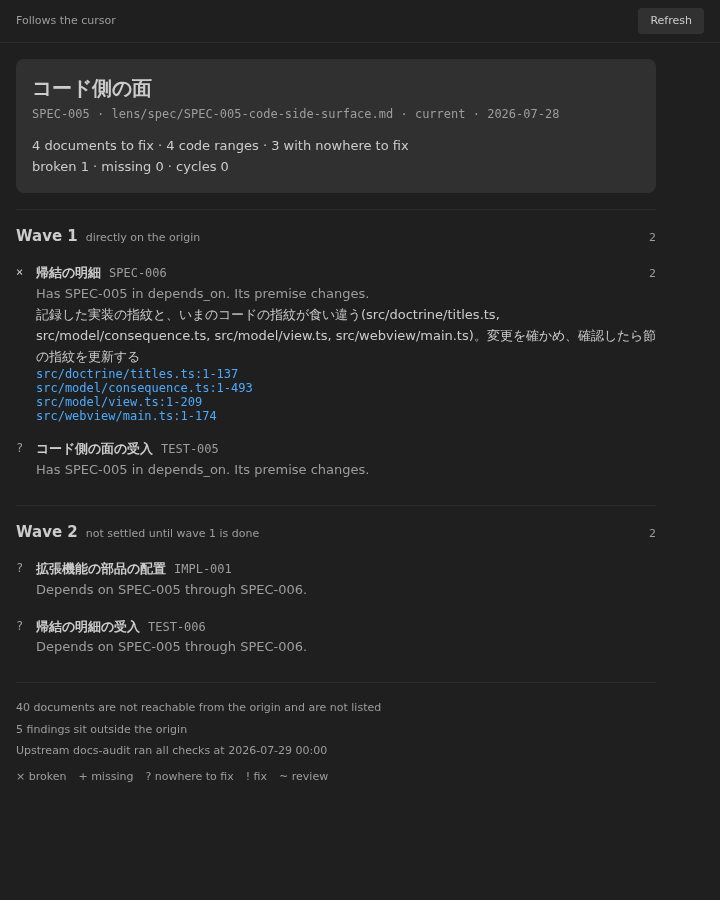
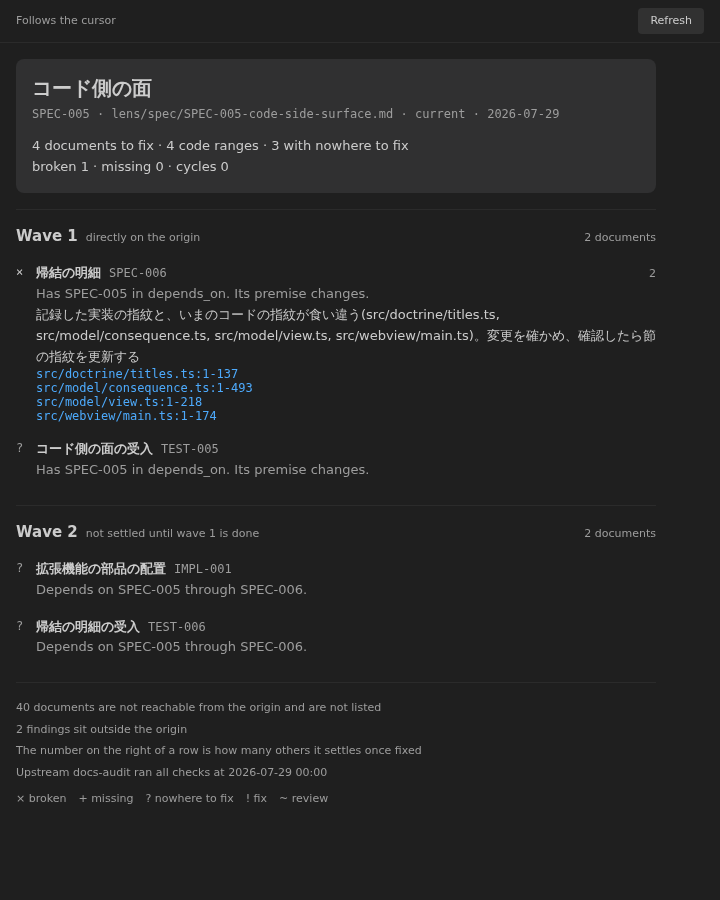
右端の数に説明を付け、読み幅を一つに固定する
写しを目で見て、門が見ていなかった二つを直した。

1. 読み幅を 72ch で書いていた。ch はその要素自身の字の大きさを基準に
   するので、11px の脚注は 500px、13px の波は 600px、20px の起点は
   900px で切れる。節ごとに右端がずれ、区切りの罫の長さが揃わなかった。
   読み幅を一つの px 値に固定し、ch/em/rem で書けないことを試験にした。

2. 右端に、意味の違う裸の数が二種類あった。波の見出しの件数と、行の
   「後ろに N」が同じ位置に出ていた。件数に単位の語を付け（「2 文書」）、
   行の数の意味を脚注で言う形にした。説明の無い数は、読めない型番と同じ
   である（利用者が最初に言った不満がまさにそれだった）。

件数の組み立ては本体へ移した。描き手は判断も整形も持たない。

Changed region(s): [[0.0306, 0.8089, 0.5194, 0.9022], [0.825, 0.2489, 0.8861, 0.28], [0.55, 0.8089, 0.5806, 0.84]]

diff --git a/src/model/view.ts b/src/model/view.ts
@@ -28,6 +28,8 @@ export interface ViewStrings {
   readonly summaryJudgements: string;
   /** `第 {0} 波` */
   readonly waveHeading: string;
+  /** 波の見出しの右端に置く件数。`{0} 文書` */
+  readonly waveCount: string;
   /** 第 1 波に添える一文 */
   readonly waveFirstNote: string;
   /** 第 2 波以降に添える一文。`{0}` は一つ前の番号 */
@@ -54,6 +56,8 @@ export interface ViewStrings {
   readonly footAuditNever: string;
   /** `題名を取れなかった文書がある` */
   readonly footNoTitles: string;
+  /** 行の右端の数が何かを言う一文 */
+  readonly footBehind: string;
   /** 波が決まらない旨。`{0}` は件数 */
   readonly cycleNote: string;
   /** 記号の語彙。順に 壊れている・足りない・場所が要る・直す・見直す */
@@ -151,6 +155,7 @@ export function buildView(
       wave.distance === 1
         ? strings.waveFirstNote
         : fill(strings.waveLaterNote, String(wave.distance - 1)),
+    count: fill(strings.waveCount, String(wave.rows.length)),
     rows: wave.rows.map((row) => rowView(row, originId, meta, strings)),
   }));
 
@@ -184,6 +189,10 @@ export function buildView(
   }
   if (cycles.length > 0) {
     footnotes.push(fill(strings.cycleNote, String(cycles.length)));
+  }
+  // 右端の数は説明の無い記号である。説明しないなら出してはいけない。
+  if (consequence.waves.some((w) => w.rows.some((r) => r.behind > 0))) {
+    footnotes.push(strings.footBehind);
   }
   if (context.titlesMissing) footnotes.push(strings.footNoTitles);
   footnotes.push(context.auditAt ? fill(strings.footAudit, context.auditAt) : strings.footAuditNever);

diff --git a/src/l10n.ts b/src/l10n.ts
@@ -110,6 +110,7 @@ export function viewStrings(): ViewStrings {
     summaryCounts: t("{0} documents to fix · {1} code ranges · {2} with nowhere to fix", "{0}", "{1}", "{2}"),
     summaryJudgements: t("broken {0} · missing {1} · cycles {2}", "{0}", "{1}", "{2}"),
     waveHeading: t("Wave {0}", "{0}"),
+    waveCount: t("{0} documents", "{0}"),
     waveFirstNote: t("directly on the origin"),
     waveLaterNote: t("not settled until wave {0} is done", "{0}"),
     reasonDirect: t("Has {0} in depends_on. Its premise changes.", "{0}"),
@@ -128,6 +129,7 @@ export function viewStrings(): ViewStrings {
     footAudit: t("Upstream docs-audit ran all checks at {0}", "{0}"),
     footAuditNever: t("Upstream docs-audit has not run yet"),
     footNoTitles: t("Some titles could not be read; those rows show the id instead"),
+    footBehind: t("The number on the right of a row is how many others it settles once fixed"),
     cycleNote: t("{0} cycles: those documents have no wave until the cycle is broken", "{0}"),
     legendBroken: t("× broken"),
     legendMissing: t("+ missing"),

diff --git a/src/shared/protocol.ts b/src/shared/protocol.ts
@@ -40,6 +40,13 @@ export interface WaveView {
   readonly heading: string;
   /** 見出しに添える一文（「起点に直接ぶら下がる」）。 */
   readonly note: string;
+  /**
+   * 見出しの右端に置く件数（「2 文書」）。
+   *
+   * 単位の語を付けるのは、行の右端の数（「後ろに N」）と同じ位置に出るためである。
+   * 裸の数を二種類、同じ場所に置くと、どちらがどちらか読めない。
+   */
+  readonly count: string;
   readonly rows: readonly RowView[];
 }
 

diff --git a/src/webview/main.ts b/src/webview/main.ts
@@ -116,7 +116,7 @@ function draw(view: ConsequenceView): void {
     heading.append(
       text("span", "", wave.heading),
       text("span", "note", wave.note),
-      text("span", "count", String(wave.rows.length)),
+      text("span", "count", wave.count),
     );
     section.append(heading);
     for (const row of wave.rows) section.append(drawRow(row));

diff --git a/doctrine_docs/lens/spec/SPEC-006-consequence-list.md b/doctrine_docs/lens/spec/SPEC-006-consequence-list.md
@@ -55,7 +55,9 @@ B が第 1 波に出る。だが B は C 経由でも起点に依存している
 2. **要約の一行** — `N 文書を直す ・ コード M か所 ・ 直す場所が無い K 件` と、
    `壊れている N ・ 足りない N ・ 循環 N`
 3. **波** — 第 1 波から順に。各波の見出しは名前ではなく**文**である
-   （「第 2 波　第 1 波が済むまで確定しない」）。右端に件数
+   （「第 2 波　第 1 波が済むまで確定しない」）。右端に件数を、**単位の語を付けて**置く
+   （「2 文書」）。行の右端の数（「後ろに N」）と同じ位置に出るので、
+   裸の数を二種類そこへ置くと、どちらがどちらか読めない
 4. **脚注** — 隠した件数・上流の名前と時刻・記号の語彙
 
 各行の形:
@@ -88,6 +90,9 @@ B が第 1 波に出る。だが B は C 経由でも起点に依存している
 - **上流が書いた所見の文を一字も削らずに出す。** 書き直さない。要約しない。
 - **畳んだら必ず件数を書く。** 「起点に繋がらない N 文書は出していない」。
   隠すことは抽象ではない。
+- **説明の無い数を置かない。** 行の右端の数が何を数えたものかを脚注で言う。
+  型番が読めないのと同じ理由で、説明の無い数も読めない。
+  数が一つも無いときは、その脚注も出さない（説明だけが浮く）。
 - **良い状態を空白で表さない。** 「壊れている 0 ・ 足りない 0 ・ 循環 0」と数で言う。
 - **明細は必ず `file:line` で終わる。** 「要求から実装まで辿る」がそこで着地する。
 - **起点を利用者に選ばせない。** 編集器で開いている位置から決める。
@@ -133,5 +138,5 @@ doctrine プラグインの `trace-index.py` で取り直す。
 
 - sha256:6482ed9f1ec9039d8a681d19f119ddcd82586b4b34c6ba521566a24ee3769a2b
 - sha256:2b6e45964c7f17d3796f596a3920e9b77f69fa6a1bf87aa84101deded73887ac
-- sha256:89c13f686d588dc77dca8300b4aab50e258a3c2b1ea9158b375a24f9568e549b
-- sha256:4f7e7c638dd9c8d5a3b8bf7548ea19299ad48b04bd655c65bf78d93a7165d903
+- sha256:b70ba47467ae1b5b080414e23a19bb21c2c346b68c54cb61879f4e8a1879d510
+- sha256:1b043eeecb2f5f0b8ead603adb913e934d795da3c58ab18b6db0f5413aeb9337

diff --git a/doctrine_docs/lens/decisions/CHANGE-004-consequence-over-map.md b/doctrine_docs/lens/decisions/CHANGE-004-consequence-over-map.md
@@ -138,7 +138,7 @@ llm_context: task
 
 | 門 | 結果 |
 |---|---|
-| 単体 | 165 件すべて通る |
+| 単体 | 167 件すべて通る |
 | 突然変異 | 表の 38 件すべてを試験が捕まえる |
 | 写し（画面） | 誤り 0・食い違い 0。720 / 480 / 280px の三つで溢れ無し |
 | 統合（実際の編集器） | 9 件すべて通る |
@@ -152,6 +152,16 @@ llm_context: task
 意匠の門も、最初は `DESIGN.md` の「`500` を使わない」という**禁止の文**から
 500 を許可値として拾っていた。凡庸な太さを入れても素通りした。
 許す値は表にだけ書く形へ直してある。
+
+写しを目で見て、門が見ていなかった二つを直した。
+
+1. **読み幅を `72ch` で書いていた。** `ch` はその要素自身の字の大きさを基準にするので、
+   11px の脚注は 500px、13px の波は 600px、20px の起点は 900px で切れる。
+   節ごとに右端がずれ、区切りの罫の長さが揃わなかった。読み幅を一つの px 値に固定し、
+   `ch`・`em`・`rem` で書けないことを試験にした。
+2. **右端に、意味の違う裸の数が二種類あった。** 波の見出しの件数と、行の
+   「後ろに N」が同じ位置に出ていた。件数に単位の語を付け（「2 文書」）、
+   行の数の意味を脚注で言う形にした。**説明の無い数は、読めない型番と同じである。**
 
 ### 上流へ投げたもの
 
